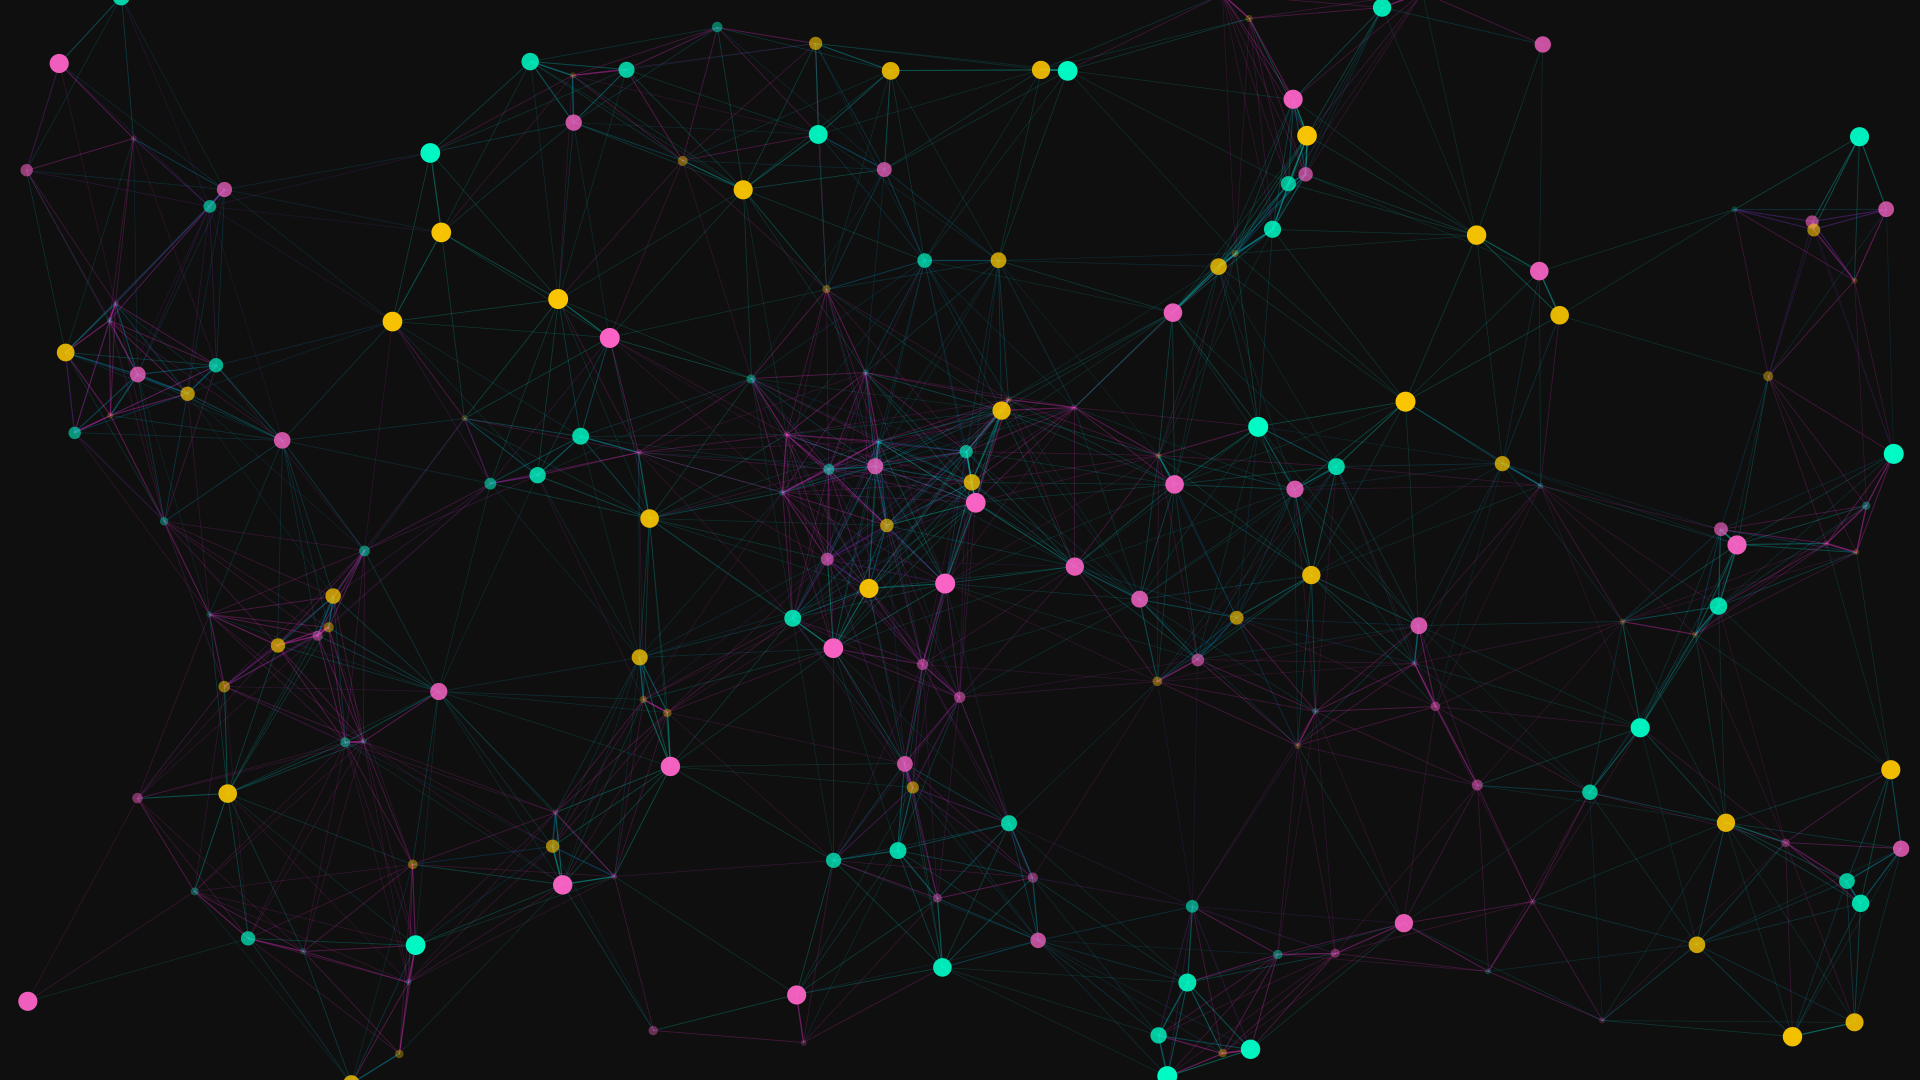
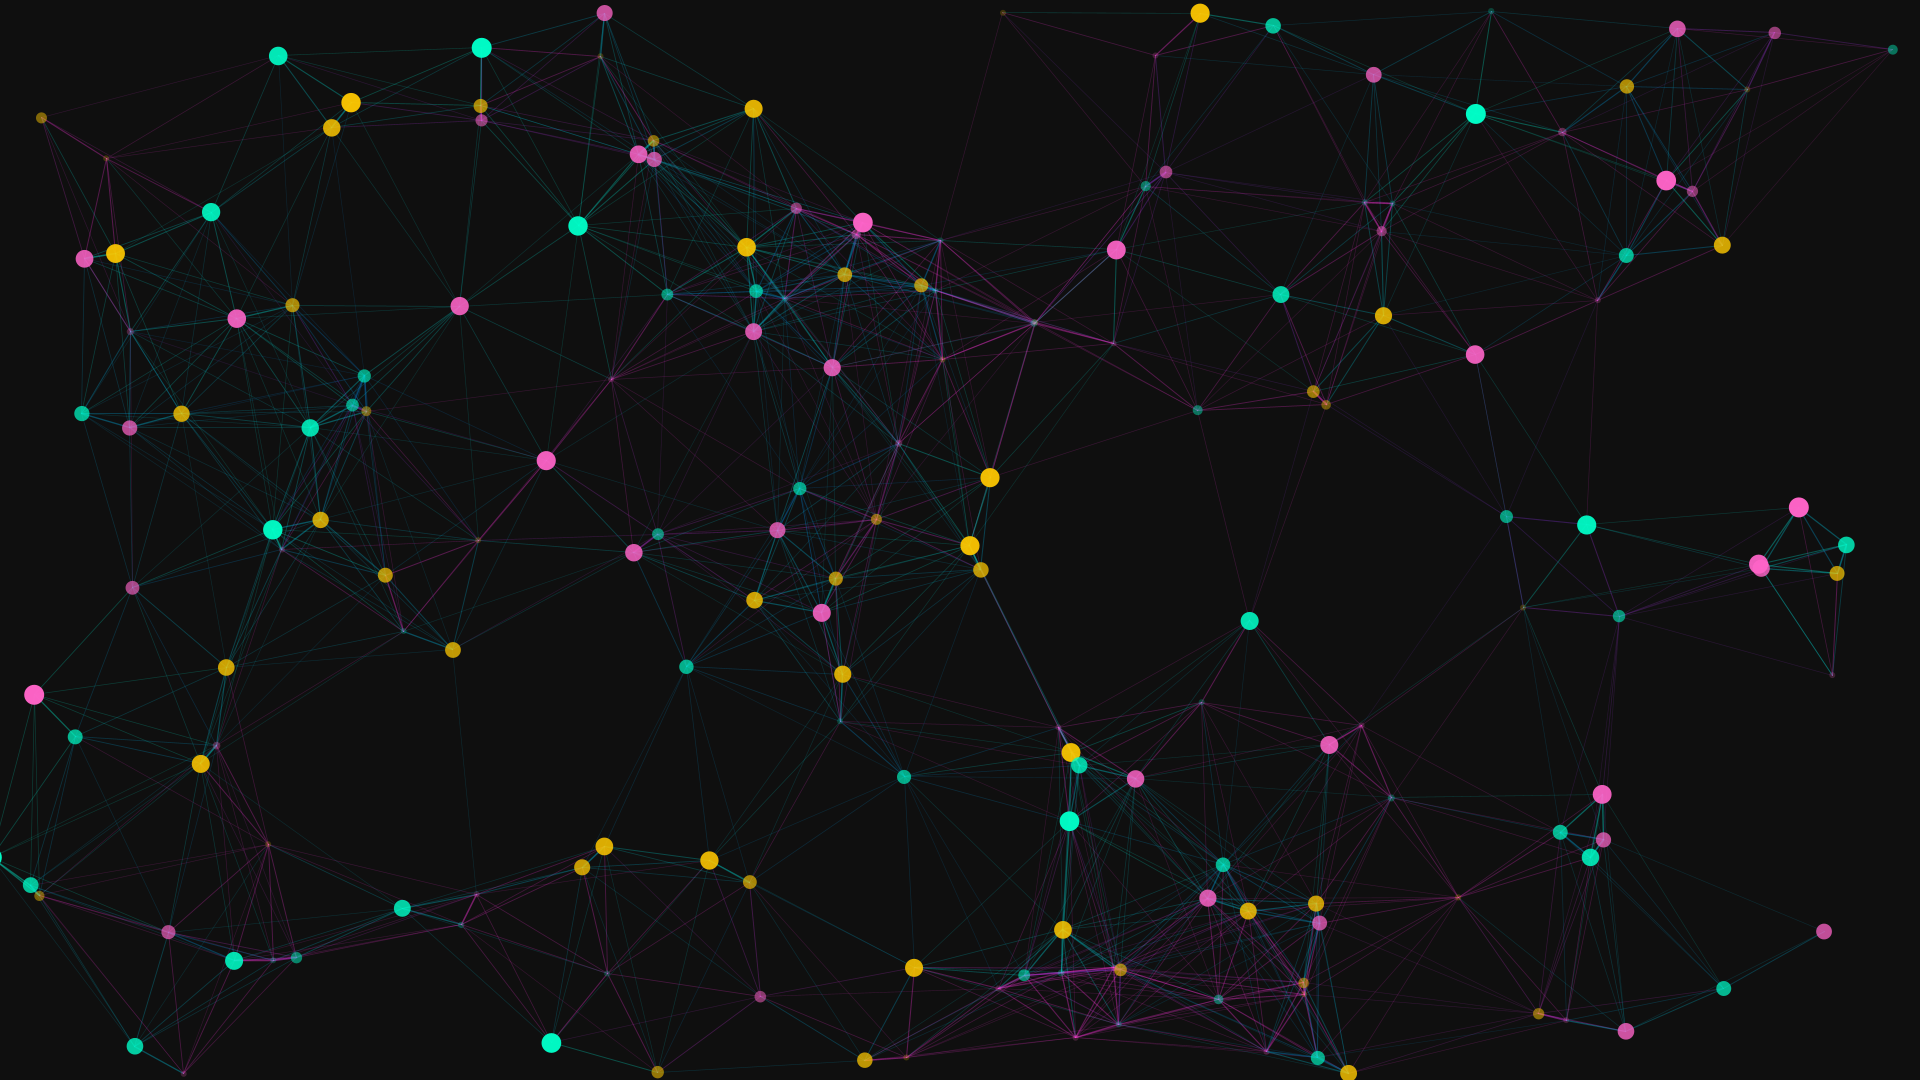
feat: generate adaptive_nerve_bloom animation

diff --git a/sketch/adaptive_nerve_bloom/main.py b/sketch/adaptive_nerve_bloom/main.py
@@ -137,7 +137,7 @@ def draw():
 
         print(f"[Render FFmpeg] Compiling {TOTAL_FRAMES} frames into video...")
         subprocess.run([
-            "ffmpeg", "-y", "-r", str(FPS),
+            "/opt/homebrew/bin/ffmpeg", "-y", "-r", str(FPS),
             "-i", str(FRAMES_DIR / "frame-%04d.png"),
             "-vcodec", "libx264", "-pix_fmt", "yuv420p",
             str(SKETCH_DIR / f"{WORK_NAME}.mp4"),

diff --git a/sketch/WORKS.md b/sketch/WORKS.md
@@ -3,6 +3,13 @@
 Read this file before creating any new artwork.
 Use it to avoid repeating themes, techniques, or algorithms from past works.
 
+## adaptive_nerve_bloom
+
+- **Date**: 2026-05-23
+- **Theme**: Emergent intelligence and neural connections.
+- **Technique**: Network graph simulation with 180 nodes and dynamic distance-based synapses. Signal propagation is visualized through pulsing edge brightness and node activation radii. Rendered with a Cyan, Magenta, and Gold palette over a dark canvas. 15s 60fps MP4.
+- **Description**: The dark canvas blooms with a constellation of cyan, magenta, and gold neural nodes. Connections between neurons pulse with energy as signals propagate through the network, creating an ever-shifting web of computational activity. The animation captures the essence of intelligence emerging and organizing itself in real time.
+
 ## strange_attractor_aizawa
 
 - **Date**: 2026-05-23

diff --git a/.agents/FEEDBACK.md b/.agents/FEEDBACK.md
@@ -4,6 +4,11 @@
 Agents MUST NOT write anything in the `Comment` field. When registering a new work, Agents must leave the `Rating` and `Comment` fields empty or with their default labels as placeholders for the user.
 The Artist reads this file before starting a new sketch to understand preferences.
 
+## adaptive_nerve_bloom
+
+- **Rating**: 
+- **Comment**: 
+
 ## strange_attractor_aizawa
 
 - **Rating**: 
